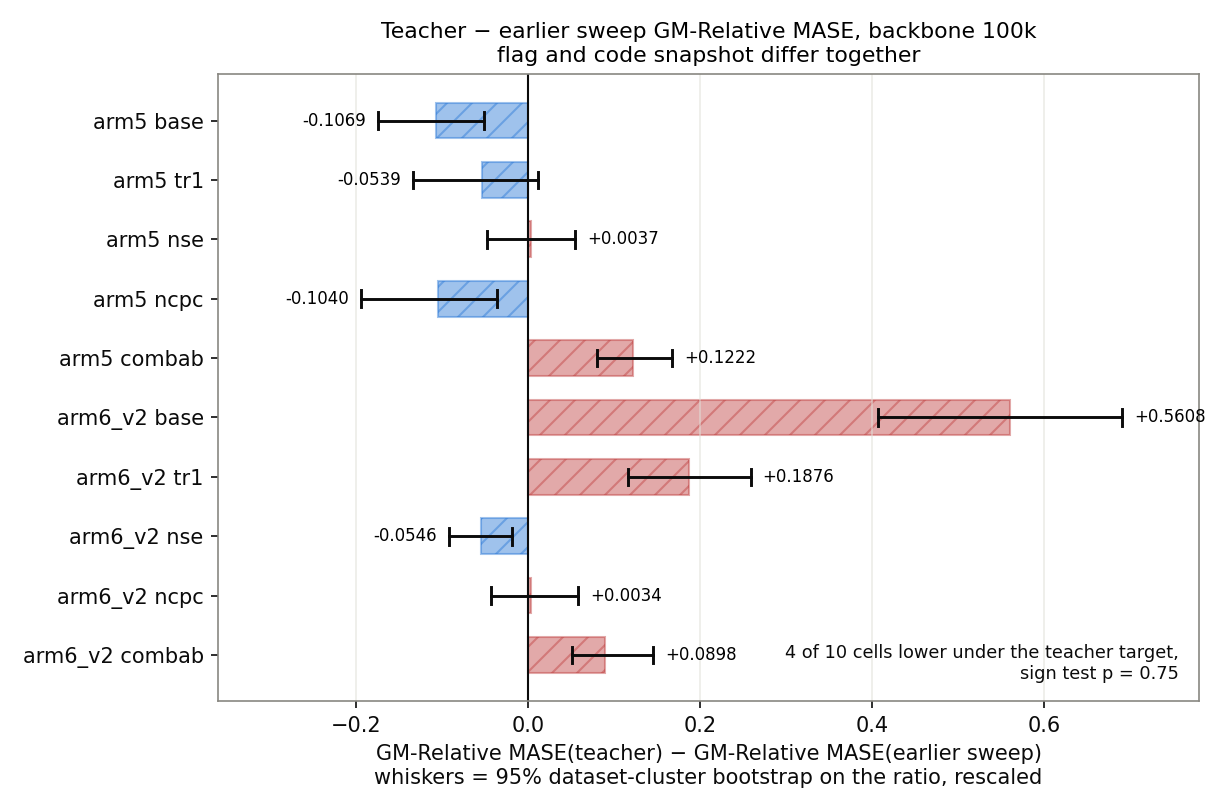
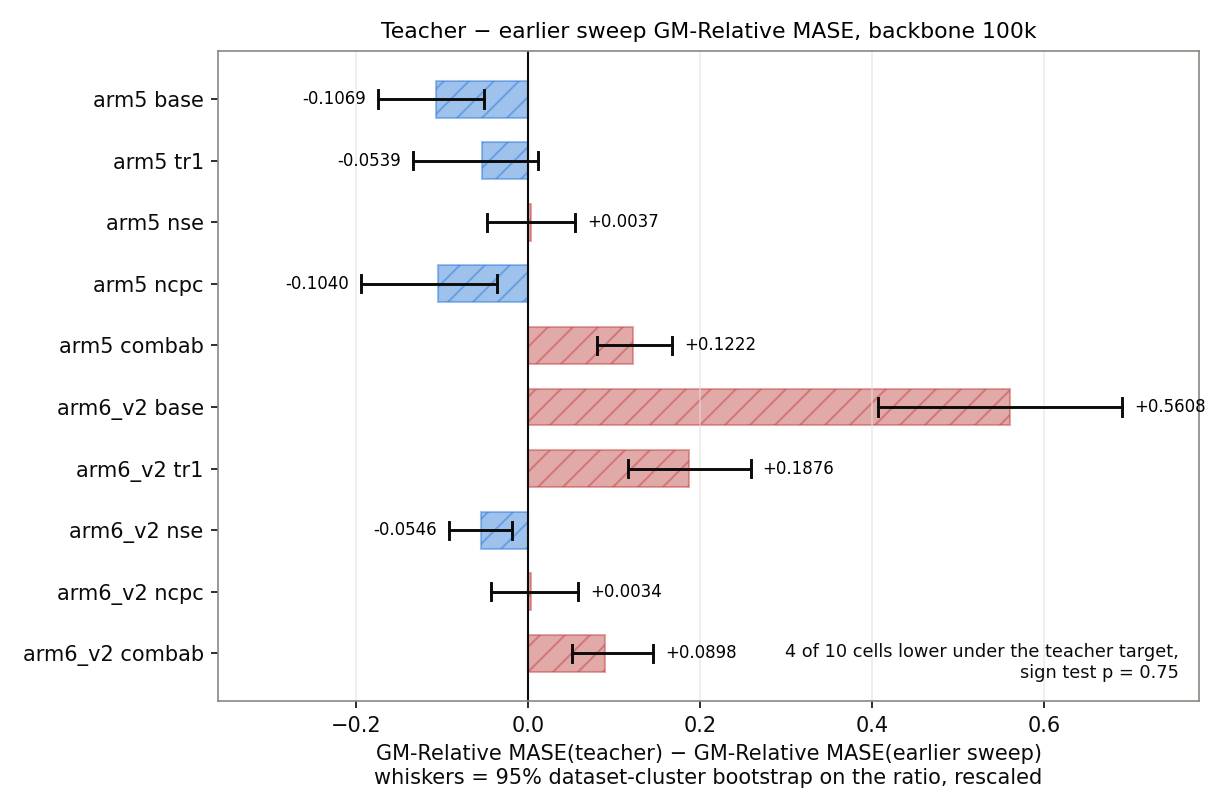
exp(#390): fourteenth-pass report — scope the code-snapshot claim, state the reproduction tolerance, name the noise bar's horizon

diff --git a/reports/2026-08-04_lalign_teacher/plots/_make_cross_delta_100k.py b/reports/2026-08-04_lalign_teacher/plots/_make_cross_delta_100k.py
@@ -76,8 +76,8 @@ ax.grid(True, axis="x", color=GRID, alpha=0.6)
 ax.set_xlim(-0.36, 0.78)
 ax.set_xlabel("GM-Relative MASE(teacher) − GM-Relative MASE(earlier sweep)\n"
               "whiskers = 95% dataset-cluster bootstrap on the ratio, rescaled")
-ax.set_title("Teacher − earlier sweep GM-Relative MASE, backbone 100k\n"
-             "flag and code snapshot differ together", fontsize=10.5)
+ax.set_title("Teacher − earlier sweep GM-Relative MASE, backbone 100k",
+             fontsize=10.5)
 fig.tight_layout()
 out = HERE / "cross_delta_100k.png"
 fig.savefig(out)

diff --git a/reports/2026-08-04_lalign_teacher/plots/_make_controlled_delta.py b/reports/2026-08-04_lalign_teacher/plots/_make_controlled_delta.py
@@ -120,8 +120,7 @@ for y, arm in zip(ys, ARMS):
             f"{d:+.4f}", va="center",
             ha="right" if d < 0 else "left", fontsize=8)
 ax.axvline(0.0, color=INK, lw=1.0)
-ax.set_title("Against the earlier sweep — flag and code snapshot differ "
-             "together", fontsize=10)
+ax.set_title("Against the earlier sweep", fontsize=10)
 ax.set_xlabel("GM-Relative MASE(teacher) − GM-Relative MASE(earlier sweep)\n"
               "whiskers = 95% dataset-cluster bootstrap on the ratio, rescaled")
 ax.set_xlim(-0.36, 0.24)

diff --git a/reports/2026-08-04_lalign_teacher/lalign_teacher.md b/reports/2026-08-04_lalign_teacher/lalign_teacher.md
@@ -1,6 +1,6 @@
 # The EMA-teacher alignment target moves individual cells in both directions and does not move the set of 10 either way
 
-Seven of the ten measured cells move past their eval-sampling interval, and three past the largest measured head-seed range, in both directions. Over the set of ten the mean shift is not separable from zero.
+Over the ten cells the mean shift is not separable from zero (sign test p = 0.75, Wilcoxon p = 0.70). Individual cells move in both directions, seven past their eval-sampling interval.
 
 ![Teacher minus student GM-Relative MASE at backbone 40k](plots/controlled_vs_cross_delta.png)
 
@@ -20,24 +20,24 @@ The right panel moves the flag and the code snapshot together, so only the left 
 >
 > **GM-Relative MASE** — the metric of every figure here; lower is better, 1.0 is parity with seasonal naive (full definition in [Protocol](#9-protocol)).
 
-## 1. What the flag does alone
+## 1. The student control against the earlier sweep
 
-| Cell | earlier sweep | this branch | difference | configs identical / 97 |
-|---|---|---|---|---|
-| `arm5 base` ⧗ | 1.547783 | 1.450053 | −0.097730 | 0 |
-| `arm5 tr1` | 1.325372 | 1.325372 | +0.000000 | 97 |
-| `arm5 nse` | 1.468179 | 1.468179 | +0.000000 | 97 |
-| `arm5 ncpc` | 1.507886 | 1.507886 | +0.000000 | 97 |
-| `arm5 combab` | 1.286777 | 1.286803 | +0.000026 | 0 |
-| `arm6_v2 base` | 1.314899 | 1.314870 | −0.000028 | 0 |
-| `arm6_v2 tr1` | 1.468361 | 1.468361 | +0.000000 | 97 |
-| `arm6_v2 nse` | 1.379123 | 1.379195 | +0.000072 | 0 |
-| `arm6_v2 ncpc` | 1.362271 | 1.362114 | −0.000157 | 0 |
-| `arm6_v2 combab` | 1.202512 | 1.202512 | +0.000000 | 97 |
+| Cell | earlier sweep | this branch | difference | configs identical / 97 | largest per-config relative difference |
+|---|---|---|---|---|---|
+| `arm5 base` ⧗ | 1.547783 | 1.450053 | −0.097730 | 0 | 2.70e−01 |
+| `arm5 tr1` | 1.325372 | 1.325372 | +0.000000 | 97 | 0.00e+00 |
+| `arm5 nse` | 1.468179 | 1.468179 | +0.000000 | 97 | 0.00e+00 |
+| `arm5 ncpc` | 1.507886 | 1.507886 | +0.000000 | 97 | 0.00e+00 |
+| `arm5 combab` | 1.286777 | 1.286803 | +0.000026 | 0 | 7.01e−04 |
+| `arm6_v2 base` | 1.314899 | 1.314870 | −0.000028 | 0 | 5.67e−04 |
+| `arm6_v2 tr1` | 1.468361 | 1.468361 | +0.000000 | 97 | 0.00e+00 |
+| `arm6_v2 nse` | 1.379123 | 1.379195 | +0.000072 | 0 | 1.44e−03 |
+| `arm6_v2 ncpc` | 1.362271 | 1.362114 | −0.000157 | 0 | 2.26e−03 |
+| `arm6_v2 combab` | 1.202512 | 1.202512 | +0.000000 | 97 | 0.00e+00 |
 
-*Student control against the earlier sweep's number for the same cell (`results/snapshot_reproduction_40k.csv`). ⧗ marks the row measured on a different backbone.*
+*Student control against the earlier sweep's number for the same cell (`results/snapshot_reproduction_40k.csv`). A row counts as reproducing when the difference column is at most 0.0002 in absolute value, the resolution of the four-decimal tables in this report; nine rows meet it. ⧗ marks the row measured on a different backbone.*
 
-`arm5 base` ⧗ is the only one whose earlier-sweep number came from a different backbone, a resumed run ([`results/README.md`](results/README.md)); this branch still repeats every one of the ten backbones step for step (`results/replicate_provenance_40k.csv`), so the eval differences above are the code snapshot.
+Nine rows share their backbone trace with the earlier sweep step for step (`results/replicate_provenance_40k.csv`), so their differences are the code snapshot. `arm5 base` ⧗ differs by backbone as well: the earlier sweep published replicate r3, this branch reproduces r1 at all 40 000 steps and r3 at none, so its −0.097730 is a different backbone trace ([`results/README.md`](results/README.md)).
 
 ## 2. Head-seed spread
 
@@ -45,7 +45,7 @@ The right panel moves the flag and the code snapshot together, so only the left 
 
 *Four frozen backbones, the only four cells carrying replicate head seeds (`results/seed_spread.csv`).*
 
-The head seed alone moves a cell, and that spread is the bar any claimed gap must clear.
+The head seed alone moves a cell by up to 0.0908, measured at backbone 100k and 200k with a 30 000-step head, and three of the ten controlled deltas, measured at backbone 40k with a 15 000-step head, exceed that bar.
 
 ## 3. Across backbone horizons
 
@@ -59,15 +59,15 @@ The ranking at 40k does not survive to 100k.
 
 *The 8 cells extended past 100k. Filled dot = backbone 200k, hollow = 100k, vertical whisker = measured head-seed range, on the 3 of 8 cells that carry replicate seeds.*
 
-Most of the extended cells fell further from 100k to 200k.
+From 100k to 200k more extended cells improved than degraded.
 
 ## 4. Per-domain
 
 ![Two radars of per-domain relative MASE](plots/eval_domain_radar.png)
 
-*The headline geometric mean split by dataset domain. Per-config source: `results/eval_gm_mase/<cell>_bb<step>k_hd30000s/all_results.csv`, same seasonal-naive denominator as the aggregate. The left radar mixes cells measured at backbone 100k and at 200k, so it moves the backbone step as well as the cell.*
+*The headline geometric mean split by dataset domain. Per-config source: `results/eval_gm_mase/<cell>_bb<step>k_hd30000s/all_results.csv`, same seasonal-naive denominator as the aggregate.*
 
-Cells fall below parity on Nature and Sales, and above it on every other domain.
+Cells fall below parity on Nature (6 of 8) and on Sales (7 of 8), and on no other domain.
 
 ## 5. The retrained cells against the earlier sweep
 
@@ -98,15 +98,9 @@ Late drift does not separate the improvers at this sample size; in panel 2, `arm
 
 ![Backbone loss and attention logit magnitude of the worst cell at each backbone step](plots/per_run_loss.png)
 
-*Selected run in colour, the other four settings of the same recipe in grey (`results/training_curves/`, `results/attn_amplitude/`).*
+*The three cells with the highest GM-Relative MASE of the field at backbone 40k, at 100k and at 200k (`results/gm_relative_mase.csv`, `results/training_curves/`, `results/attn_amplitude/`). Selected run in colour, the other four settings of the same recipe in grey.*
 
-| Cell | GM-Rel MASE | loss, start of 0–40k | end of 0–40k | end of 40–100k | end of 100–200k | peak qk logit | qk rank / 40 | rise-from-min | rise rank / 40 |
-|---|---|---|---|---|---|---|---|---|---|
-| `arm1 combab` | 3.1251 @ 40k | 19.03 | 19.82 | 19.54 | 19.75 | 6.51 | 1 | 4.4648 | 40 |
-| `arm5 nse` ⟲ | 1.8887 @ 200k | 19.80 | 14.11 | 13.95 | 13.97 | 259.94 | 40 | 0.0688 | 7 |
-| `arm6_v2 base` ⟲ | 1.9057 @ 100k | 12.98 | 4.92 | 4.92 | — | 12.75 | 7 | 0.2342 | 16 |
-
-*The three cells are selected by one rule: the highest GM-Relative MASE of the field at backbone 40k, at 100k and at 200k (`results/gm_relative_mase.csv`, `results/anomaly_windows.csv`, `results/anomaly_inspection.csv`). No non-finite loss or gap appears in any of the 40 backbones.*
+No non-finite loss or gap appears in any of the 40 backbones; `arm1 combab` never brings its loss down, while `arm5 nse` trains down and its peak attention logit tops the 40 without standing apart from the next values (259.94, then 256.76 and 234.74; table in [section 8](#loss-and-attention-of-the-worst-cell)).
 
 ## 8. Tables
 
@@ -164,22 +158,32 @@ Late drift does not separate the improvers at this sample size; in panel 2, `arm
 
 *Backing data for section 5. Ratio = teacher ÷ earlier sweep, below 1.0 means the teacher run scored lower. Intervals are 95% dataset-cluster bootstraps (`results/eval_bootstrap_ci.csv`).*
 
-### The teacher target against the same-branch student control, backbone 40k
+### The teacher target at backbone 40k
 
-| Cell | teacher | student control (this branch) |
-|---|---|---|
-| `arm5 base` | 1.3515 | 1.4501 |
-| `arm5 tr1` | 1.3396 | 1.3254 |
-| `arm5 nse` | 1.4536 | 1.4682 |
-| `arm5 ncpc` | 1.2923 | 1.5079 |
-| `arm5 combab` | 1.2728 | 1.2868 |
-| `arm6_v2 base` | 1.4322 | 1.3149 |
-| `arm6_v2 tr1` | 1.5315 | 1.4684 |
-| `arm6_v2 nse` | 1.3074 | 1.3792 |
-| `arm6_v2 ncpc` | 1.3159 | 1.3621 |
-| `arm6_v2 combab` | 1.2765 | 1.2025 |
+| Cell | teacher |
+|---|---|
+| `arm5 base` | 1.3515 |
+| `arm5 tr1` | 1.3396 |
+| `arm5 nse` | 1.4536 |
+| `arm5 ncpc` | 1.2923 |
+| `arm5 combab` | 1.2728 |
+| `arm6_v2 base` | 1.4322 |
+| `arm6_v2 tr1` | 1.5315 |
+| `arm6_v2 nse` | 1.3074 |
+| `arm6_v2 ncpc` | 1.3159 |
+| `arm6_v2 combab` | 1.2765 |
 
-*Backing data for section 1. GM-Relative MASE at backbone 40k (`results/controlled_delta_40k.csv`). The differences and their intervals are the left panel of the headline figure.*
+*GM-Relative MASE at backbone 40k (`results/controlled_delta_40k.csv`). The student control of each cell is the six-decimal table in [section 1](#1-the-student-control-against-the-earlier-sweep); the differences and their intervals are the left panel of the headline figure.*
+
+### Loss and attention of the worst cell
+
+| Cell | GM-Rel MASE | loss, start of 0–40k | end of 0–40k | end of 40–100k | end of 100–200k | peak qk logit | qk rank / 40 | rise-from-min | rise rank / 40 |
+|---|---|---|---|---|---|---|---|---|---|
+| `arm1 combab` | 3.1251 @ 40k | 19.03 | 19.82 | 19.54 | 19.75 | 6.51 | 1 | 4.4648 | 40 |
+| `arm5 nse` ⟲ | 1.8887 @ 200k | 19.80 | 14.11 | 13.95 | 13.97 | 259.94 | 40 | 0.0688 | 7 |
+| `arm6_v2 base` ⟲ | 1.9057 @ 100k | 12.98 | 4.92 | 4.92 | — | 12.75 | 7 | 0.2342 | 16 |
+
+*Backing data for section 7 (`results/anomaly_windows.csv`, `results/anomaly_inspection.csv`).*
 
 ### Per-domain GM-Relative MASE, backbone 200k
 
@@ -223,14 +227,15 @@ Late drift does not separate the improvers at this sample size; in panel 2, `arm
 ### Metrics
 
 - **GM-Relative MASE** — geometric mean over 97 GIFT-Eval configs of `MASE(model) / MASE(seasonal_naive)`, official GIFT-Eval **B4 strategy** (single-window in-context prediction, backbone context length matching the config's expected horizon), forecast horizon 16. Lower is better; above 1.0 means seasonal naive wins on that geometric average. All 30 cells share one seasonal-naive denominator file, byte-identical to the earlier sweep's, so all of them sit on one scale.
-- **95% dataset-cluster bootstrap** — the one interval used everywhere in this report: a dataset-level paired cluster bootstrap over the 28 base datasets, 10 000 resamples (`experiments/2026-08-01_lalign_teacher/scripts/controlled_delta.py`). It covers eval sampling only, conditional on the two trained models.
+- **95% dataset-cluster bootstrap** — the one interval used everywhere in this report: a dataset-level paired cluster bootstrap over the 28 base datasets, 10 000 resamples (`experiments/2026-08-01_lalign_teacher/scripts/controlled_delta.py`). It covers eval sampling only, conditional on the two trained models. The interval is computed on the ratio of the two GM-Relative MASE values; the whiskers in the delta figures are `(bound − 1) ×` the reference cell's GM-Relative MASE, which is what "rescaled" means in those figures.
 - **Head-seed range** — the spread of a cell's GM-Relative MASE when the quantile head is retrained on the frozen backbone under extra seeds, changing its init and its data order, with the full 97-config eval re-run each time. It covers head retraining, which the bootstrap interval does not.
 - **`h_t`, `e_t`** — the encoder-output latent and the patch-embedding latent, shape `[B, T, C, H]`.
 - **`ff`** — mean `cos(f̂, h_{t+1})` between the forecaster's next-step prediction and the encoder's next-step latent, unit-normalised. `1 − ff` is a cosine distance in [0, 2]; smaller = closer forecast.
 - **Latent drift** at checkpoint pair `(step_i, step_j)` — `mean_{b,t,c} 1 − cos(h_t(model_j), h_t(model_i))` on a fixed held-out batch (`torch.manual_seed(20260722)`, `B=8`, `T=4096`, `C=1`, ARMA-synthetic), and the same for `e_t`. A setting counts as *lower* than base when its mean drift over adjacent-checkpoint pairs falls below the base setting of the same recipe; the section-6 denominator is the six recipes and the p is a two-sided exact binomial test.
-- **Late drift** — the mean `h_t` drift over adjacent-checkpoint pairs beyond backbone step 100 000.- **`u_batchtime`** — `1/(d · off-diagonal Gram mean)` over `(B×T)` samples of the given latent, clamped to [0, 1]. 1 = every `H` dimension carries independent information.
+- **Late drift** — the mean `h_t` drift over adjacent-checkpoint pairs beyond backbone step 100 000.
+- **`u_batchtime`** — `1/(d · off-diagonal Gram mean)` over `(B×T)` samples of the given latent, clamped to [0, 1]. 1 = every `H` dimension carries independent information.
 - **`L_align`** — `(2 − 2·cos(f_t, h_target_{t+1})).mean()`, pulling the forecaster output toward the next encoder latent, gradient through the forecaster only. `--align-target student` takes `h_target` from the student encoder under stop-gradient; `--align-target teacher` takes it from the EMA teacher. The ten `⟲` cells are the teacher setting.
-- **Loss window** — each loss value in section 7 is the mean over the first, or the last, 5% of the logged steps of that window, not the value at a single step. **Rise-from-minimum** is the run's final loss minus the lowest loss it ever recorded.
+- **Loss window** — each loss value in section 7 is the mean over the first, or the last, 5% of the logged steps of that window, not the value at a single step. **Rise-from-minimum** is the run's final loss minus the lowest loss it ever recorded; rank 1 = lowest of the 40 backbones, the same direction as the peak qk logit rank.
 - **Peak qk logit** — `qk_logit_maxabs`, the peak absolute pre-softmax attention logit, logged every 200 steps; the table value is the maximum over layers, over the `enc` and `fcst` blocks, and over the run, while the lower panels of the section-7 figure plot it averaged over layers and blocks. Rank 1 = lowest of the 40 backbones.
 
 ### Training
@@ -256,8 +261,10 @@ Quantile head, trained on the frozen backbone, `--grad-clip 1.0` at every horizo
 ### What a comparison here can and cannot carry
 
 - The head budget changes with the backbone step (15k at 40k, 30k at 100k and 200k), so any within-arm statement across backbone steps moves two things at once.
+- The left radar of section 4 mixes cells measured at backbone 100k and at 200k, so it moves the backbone step as well as the cell.
+- The `code_snapshot_shift` row of `results/controlled_paired_tests_40k.csv` has `min_delta` −0.0977, which is the `arm5 base` backbone-provenance case of section 1, not a code-snapshot difference.
 - The 200k row compares a teacher-selected subset against a differently selected subset of the earlier sweep, so no like-for-like 200k claim is available.
-- The ten per-cell intervals in section 1 are 95% and uncorrected for the ten comparisons, so a per-cell reading is not a family-wise claim. The aggregate tests over the set of ten are the right frame (`results/controlled_paired_tests_40k.csv`).
+- The ten per-cell intervals in the headline figure are 95% and uncorrected for the ten comparisons, so a per-cell reading is not a family-wise claim. The aggregate tests over the set of ten are the right frame (`results/controlled_paired_tests_40k.csv`).
 - Every backbone in this report, both targets, is seed 20260520. Nine of ten controls reproducing the earlier sweep therefore measures determinism given that seed, not the spread across backbone seeds. No cell here carries a second backbone seed.
 
 ### Training-curve diagnostics
@@ -272,4 +279,4 @@ Quantile head, trained on the frozen backbone, `--grad-clip 1.0` at every horizo
 
 ## 10. Data
 
-Every CSV behind this report is in [`results/`](results/), documented in [`results/README.md`](results/README.md). The plot scripts are in [`plots/`](plots/); the analysis scripts are in `experiments/2026-08-01_lalign_teacher/scripts/`. The pre-teacher measurements of the same ten cells are in [`reports/2026-07-21_split_pred_rep_small/small_long.md`](../2026-07-21_split_pred_rep_small/small_long.md).
+The pre-teacher measurements of the same ten cells are in [`reports/2026-07-21_split_pred_rep_small/small_long.md`](../2026-07-21_split_pred_rep_small/small_long.md).
